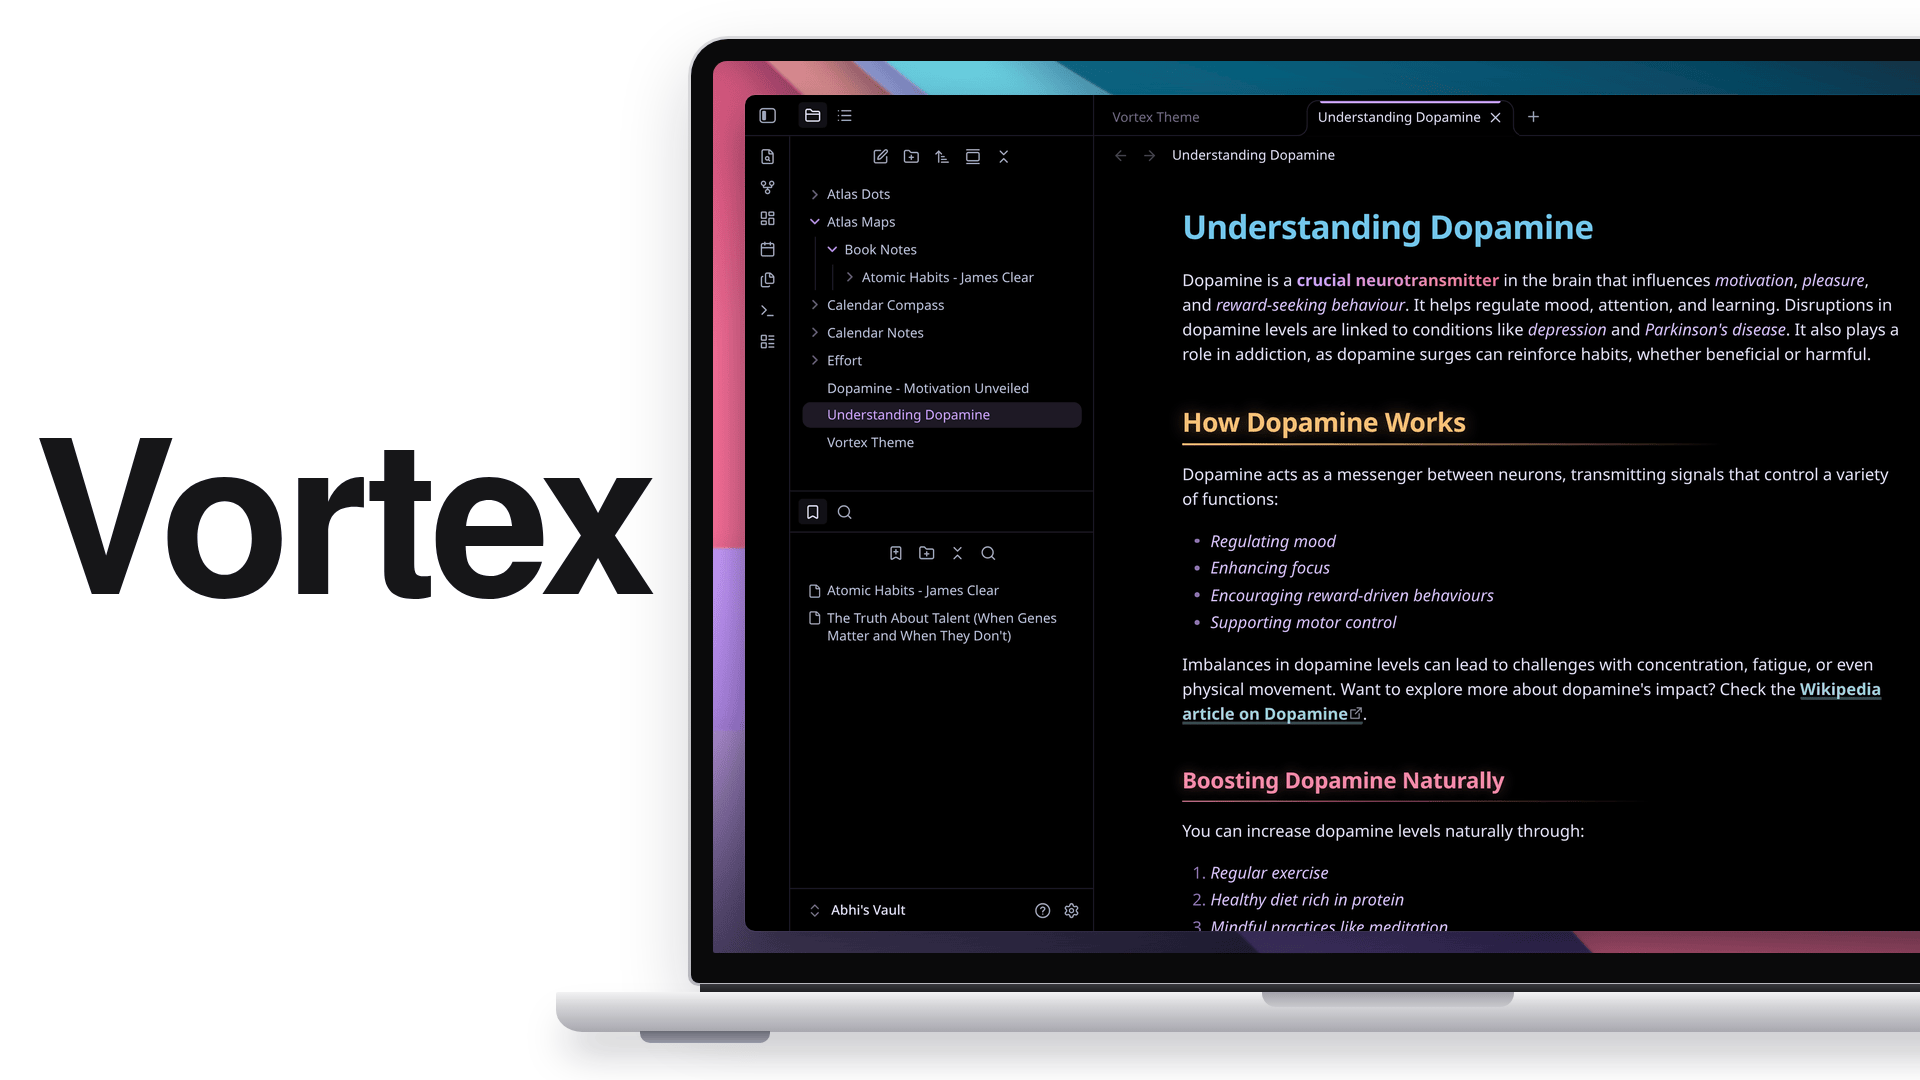
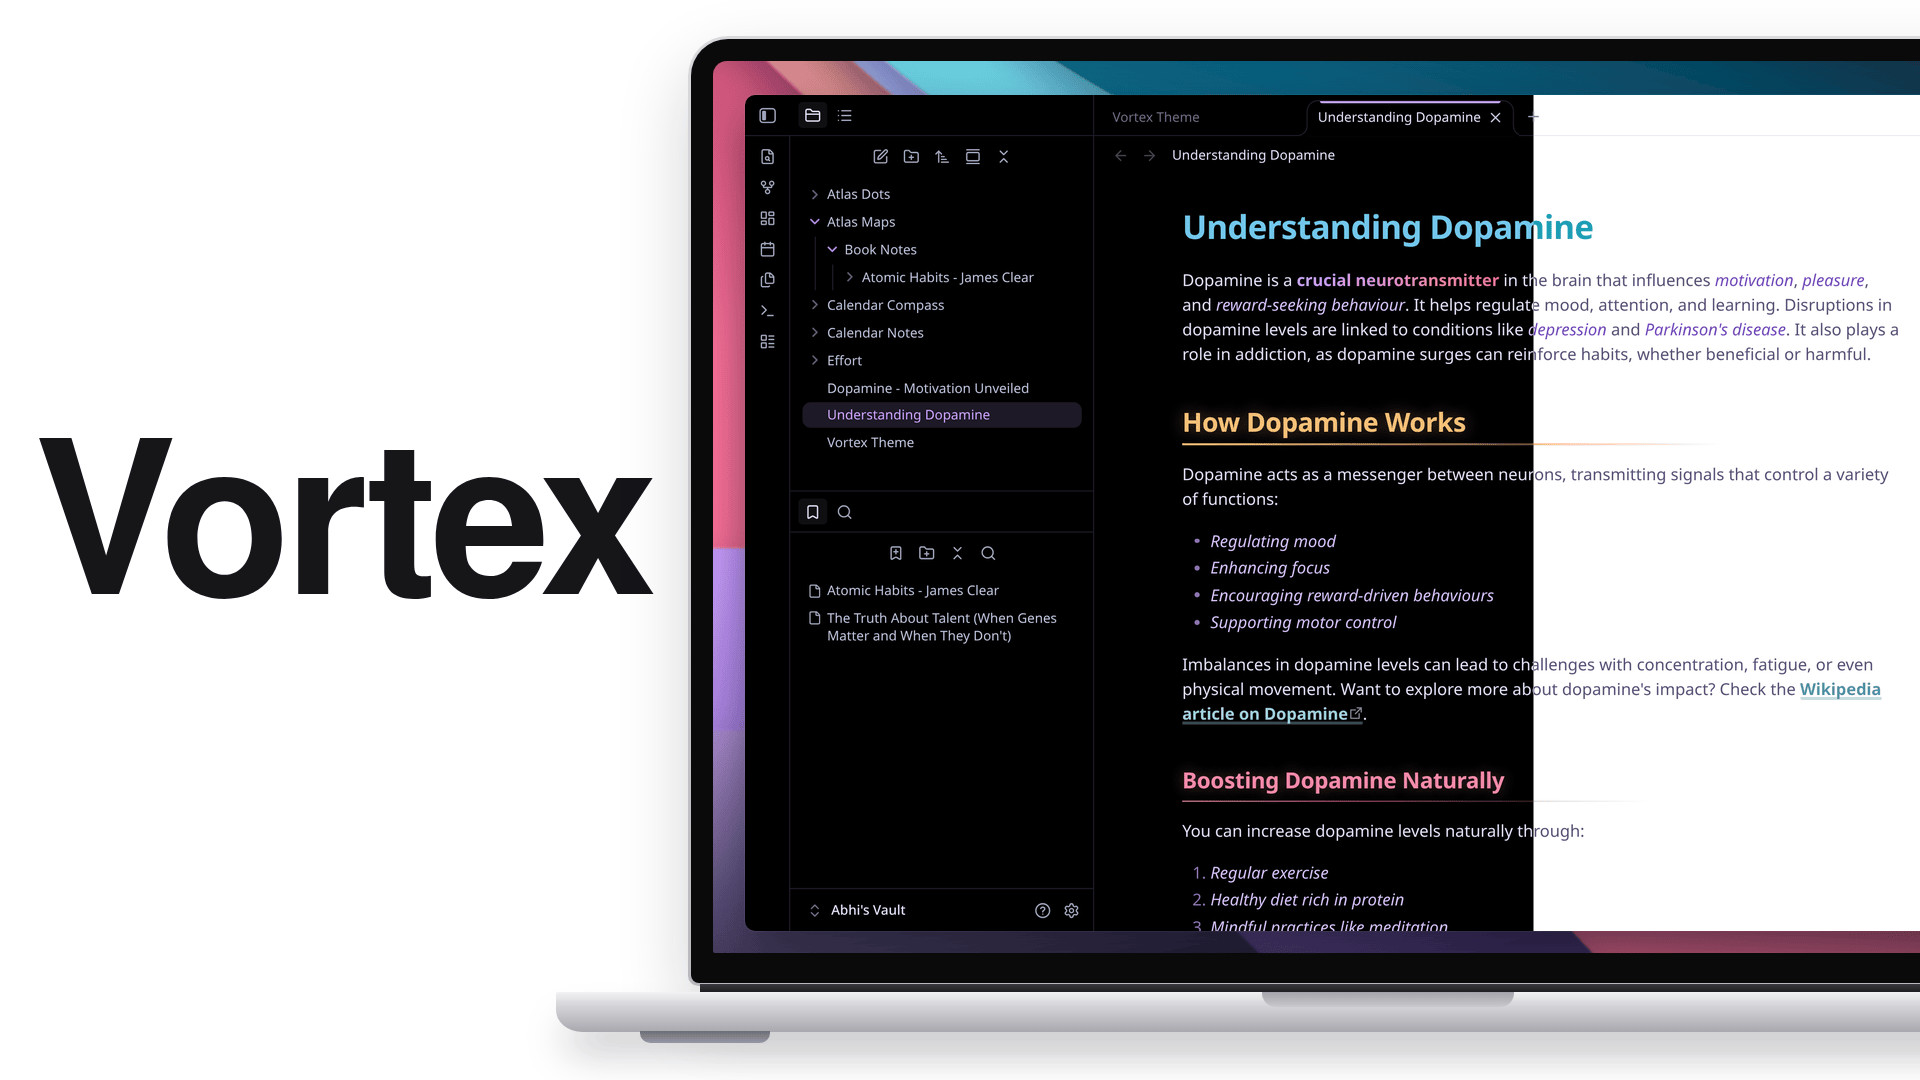
docs: show light and dark side by side in the README
Bring back the 1.x dark/light split: the cover and laptop are split down
the middle, the headings card diagonally, and the callouts card is in
light mode. The text now covers light mode, Adapt to system and the
separate light and dark Style Settings colours.

Changed region(s): [[0.7812, 0.0611, 1.0, 0.8861]]

diff --git a/README.md b/README.md
@@ -8,8 +8,10 @@
 ![Vortex Cover Image](assets/cover-hd.png)
 
 ## ✨ Features
-- Pure OLED black: the editor, sidebars, tabs, ribbon and title bar all sit on true `#000`, separated by hairlines instead of grey panels.
-- Every color comes from **Catppuccin Mocha** and **Rosé Pine**, with Catppuccin Mauve as the default accent.
+- Pure OLED black in dark mode: the editor, sidebars, tabs, ribbon and title bar all sit on true `#000`, separated by hairlines instead of grey panels.
+- A matching light mode on clean white, with the same hairlines, glow and gradients.
+- Follows **Settings → Appearance → Base color scheme**, including **Adapt to system**, so Vortex switches between light and dark along with your computer.
+- Every color comes from **Catppuccin** and **Rosé Pine**: Mocha and Rosé Pine in dark mode, Latte and Rosé Pine Dawn in light mode, with Catppuccin Mauve as the default accent.
 - Infinite accent color customization.
 - Neon glow and gradient underlines for headings.
 - Gradient bold text, and semibold links with a palette color for every kind of link.
@@ -17,7 +19,7 @@
 - Unique custom callouts with icons.
 
 > [!NOTE]
-> Vortex is dark-only: switching Obsidian to light mode keeps the same OLED palette. It uses modern CSS (relative colors and `color-mix()`), so if colors look off, update to the latest Obsidian installer from [obsidian.md](https://obsidian.md/download).
+> Vortex has a dark and a light mode. Choose one, or **Adapt to system**, in **Settings → Appearance → Base color scheme**. It uses modern CSS (relative colors and `color-mix()`), so if colors look off, update to the latest Obsidian installer from [obsidian.md](https://obsidian.md/download).
 <!-- 
 ╔═══════════════════════════╗
 ║         COLOURS           ║
@@ -78,6 +80,8 @@ Links are semibold, and every kind of link gets its own color from the palette:
 | Email (`mailto:`) | Catppuccin Pink |
 | `obsidian://` links | Catppuccin Yellow |
 
+Each color uses its Mocha or Rosé Pine shade in dark mode and its Latte or Rosé Pine Dawn shade in light mode.
+
 Heading, block, attachment, email and `obsidian://` colors show in reading view, hover previews and canvas. The editor can't tell those links apart, so while editing, links are colored as notes, missing notes or web links.
 
 ### Hover Effect
@@ -134,7 +138,7 @@ Below is a list of **custom callouts** with their respective icons. You can use 
 
 ## ⚙ Style Settings
 
-Vortex works with the [Style Settings](https://github.com/community-archive/obsidian-style-settings) plugin. Install it from **Settings → Community plugins**, then open **Settings → Style Settings → Vortex** to:
+Vortex works with the [Style Settings](https://github.com/community-archive/obsidian-style-settings) plugin. Install it from **Settings → Community plugins**, then open **Settings → Style Settings → Vortex** to change the following. Every color has a separate light and dark value.
 
 - Recolor each heading level, or turn off the heading glow and underlines.
 - Switch bold text between the gradient and a solid color, and pick the gradient's colors.
